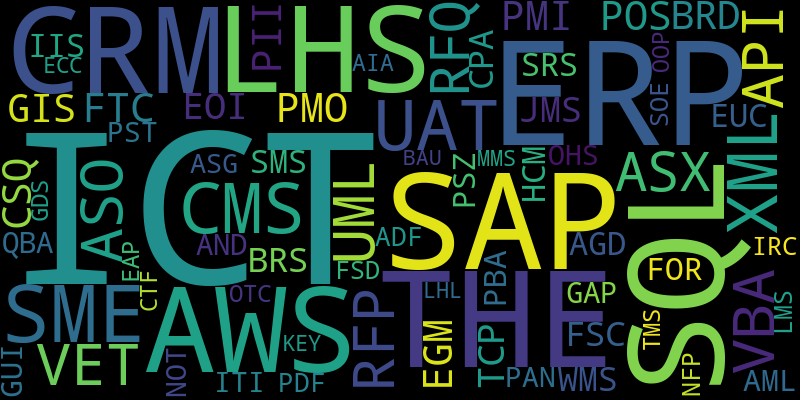
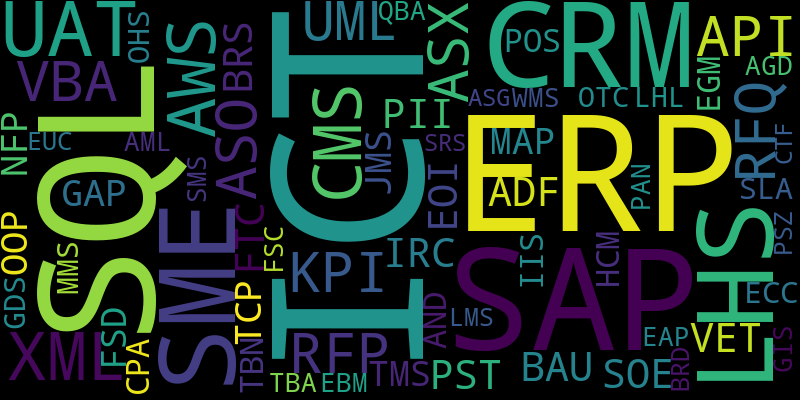
Updated stops and re-generated examples to match

diff --git a/stopwords.py b/stopwords.py
@@ -7,5 +7,16 @@ stops = [
     'TAS',
     'ACT',
     'VIC',
-    'NOW'
+    'NOW',
+    'THE',
+    'NOT',
+    'HOW',
+    'FOR',
+    'WHY',
+    'KEY',
+    'CEO',
+    'CTO',
+    'CFO',
+    'MAY',
+    'PST'
 ]
